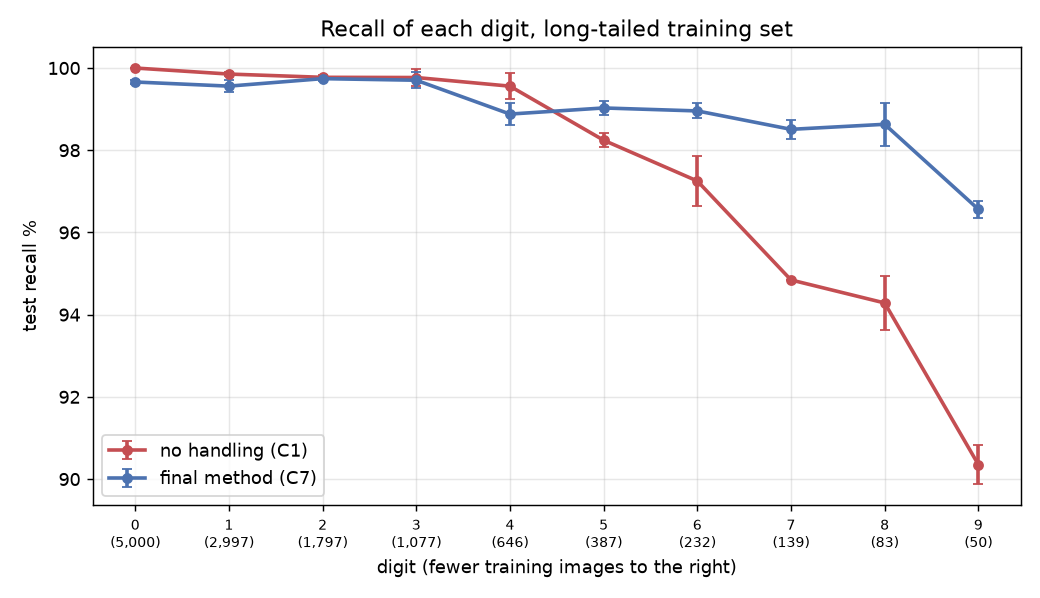
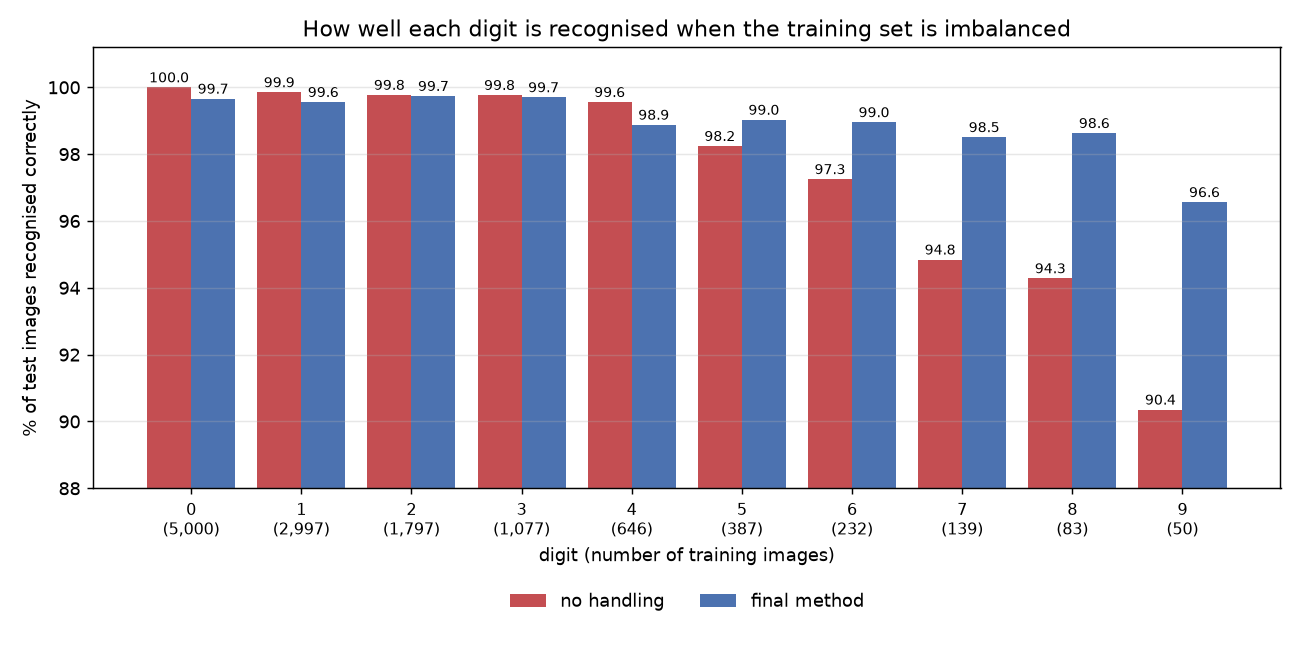
更新 Task 3 類別不平衡結果的呈現方式

diff --git a/task3_cv/main.py b/task3_cv/main.py
@@ -735,15 +735,20 @@ def plot_imbalance(lt):
     names = [m["config"]["name"] for m in methods]
     colors = plt.cm.tab10(np.arange(len(methods)))
     best = best_imbalance_method(methods)
-    # --- 圖 07:每個數字的 recall,只畫不處理和定案的做法,不然線太多看不清楚
-    fig, ax = plt.subplots(figsize=(8, 4.6))
-    for i, col, label in [(0, "#C44E52", "no handling (C1)"), (best, "#4C72B0", f"final method ({names[best].split()[0]})")]:
-        rec, sd = mean_std([r["test"] for r in methods[i]["runs"]], "recall")
-        ax.errorbar(range(NUM_CLASSES), rec * 100, yerr=sd * 100, marker="o", ms=5, capsize=3, lw=2, color=col, label=label)
-    ax.set(xlabel="digit (fewer training images to the right)", ylabel="test recall %", title="Recall of each digit, long-tailed training set")
-    ax.set_xticks(range(NUM_CLASSES))
-    ax.set_xticklabels([f"{c}\n({n:,})" for c, n in enumerate(lt["class_counts"])], fontsize=8)  # 數字底下標訓練張數
-    ax.legend(fontsize=10, loc="lower left"); ax.grid(alpha=0.3)
+    # --- 圖 07:每個數字認對的比例,不處理和定案的做法並排
+    fig, ax = plt.subplots(figsize=(10, 5))
+    xs = np.arange(NUM_CLASSES)
+    for k, (i, col, label) in enumerate([(0, "#C44E52", "no handling"), (best, "#4C72B0", "final method")]):
+        rec, _ = mean_std([r["test"] for r in methods[i]["runs"]], "recall")
+        bars = ax.bar(xs + (k - 0.5) * 0.4, rec * 100, 0.4, color=col, label=label)
+        for b, v in zip(bars, rec * 100):
+            ax.text(b.get_x() + b.get_width() / 2, v + 0.15, f"{v:.1f}", ha="center", fontsize=7.5)
+    ax.set_ylim(88, 101.2)
+    ax.set(xlabel="digit (number of training images)", ylabel="% of test images recognised correctly",
+           title="How well each digit is recognised when the training set is imbalanced")
+    ax.set_xticks(xs)
+    ax.set_xticklabels([f"{c}\n({n:,})" for c, n in enumerate(lt["class_counts"])], fontsize=9)
+    ax.legend(fontsize=10, loc="upper center", bbox_to_anchor=(0.5, -0.2), ncol=2, frameon=False); ax.grid(alpha=0.3, axis="y")
     savefig(fig, "07_imbalance_per_class_recall.png")
 
     # --- 圖 10:各方法的測試準確率,一個方法一條

diff --git a/README.md b/README.md
@@ -70,9 +70,22 @@ XGBoost 和 LightGBM 一樣好,我選 LightGBM。之後試了調參數、加 cla
 
 定案的模型有 72,666 個參數,測試準確率 99.64%(一萬張錯 36 張)。每一組實驗的數字和圖在 [Task 3 的說明](task3_cv/README.md)裡。
 
-類別不平衡的部分,數字 0 留 5,000 張,一路遞減到數字 9 只有 50 張。不處理的話數字 9 的 recall 只有 90.4%,定案的做法可以拉到 96.6%。下圖紅線是不處理,藍線是定案的做法。橫軸是數字,括號裡是訓練張數,越右邊越少;縱軸是測試的 recall。
+類別不平衡的部分,我讓訓練資料裡數字 0 有 5,000 張,一路遞減到數字 9 只有 50 張。下表是測試時每個數字的圖有多少比例被認對:
 
-![imbalance](task3_cv/outputs/07_imbalance_per_class_recall.png)
+| 數字 | 訓練張數 | 不處理 | 定案的做法 |
+|---|---|---|---|
+| 0 | 5,000 | 100.0% | 99.7% |
+| 1 | 2,997 | 99.9% | 99.6% |
+| 2 | 1,797 | 99.8% | 99.7% |
+| 3 | 1,077 | 99.8% | 99.7% |
+| 4 | 646 | 99.6% | 98.9% |
+| 5 | 387 | 98.2% | 99.0% |
+| 6 | 232 | 97.3% | 99.0% |
+| 7 | 139 | 94.8% | 98.5% |
+| 8 | 83 | 94.3% | 98.6% |
+| 9 | 50 | 90.4% | 96.6% |
+
+不處理的話,訓練張數多的數字幾乎全對,但張數越少認得越差,數字 9 只認對 90.4%。用定案的做法之後,張數少的數字都拉回 96% 以上,張數多的只掉了一點點。
 
 ## 怎麼跑
 

diff --git a/task3_cv/README.md b/task3_cv/README.md
@@ -163,7 +163,20 @@ MNIST 每個數字的數量差不多,所以不平衡要自己做。我讓數字 
 
 ![methods](outputs/10_imbalance_methods.png)
 
-下面這張把不處理(紅)和定案的做法(藍)拆開來看每個數字的 recall。橫軸括號裡是訓練張數,越右邊越少。
+把不處理和定案的做法(C7)拆開來看,每個數字的測試圖有多少比例被認對(這個比例就是該數字的 recall):
+
+| 數字 | 訓練張數 | 不處理 | 定案的做法 |
+|---|---|---|---|
+| 0 | 5,000 | 100.0% | 99.7% |
+| 1 | 2,997 | 99.9% | 99.6% |
+| 2 | 1,797 | 99.8% | 99.7% |
+| 3 | 1,077 | 99.8% | 99.7% |
+| 4 | 646 | 99.6% | 98.9% |
+| 5 | 387 | 98.2% | 99.0% |
+| 6 | 232 | 97.3% | 99.0% |
+| 7 | 139 | 94.8% | 98.5% |
+| 8 | 83 | 94.3% | 98.6% |
+| 9 | 50 | 90.4% | 96.6% |
 
 ![per-class recall](outputs/07_imbalance_per_class_recall.png)
 
